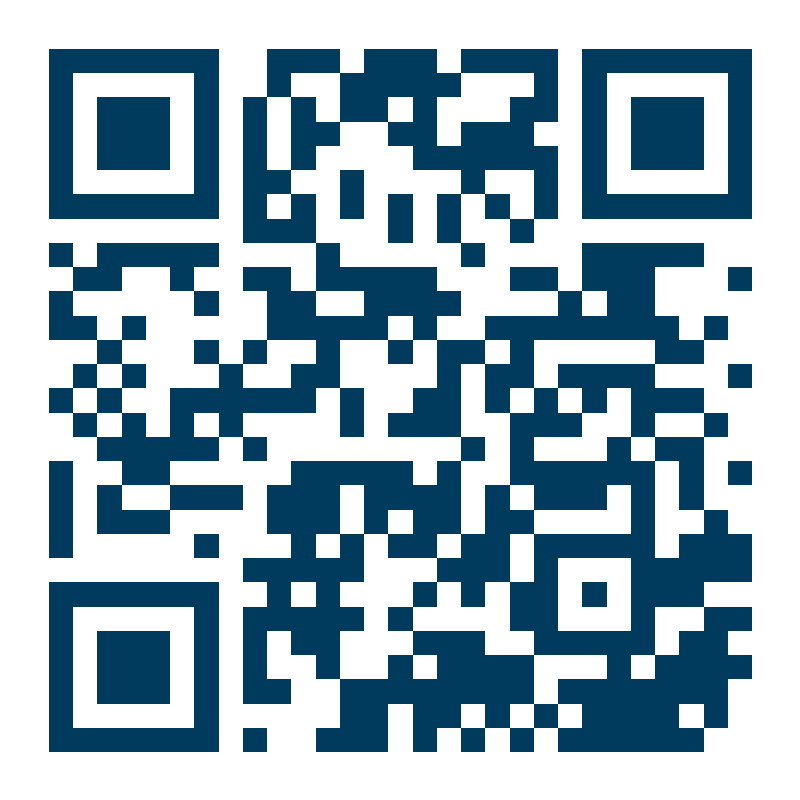
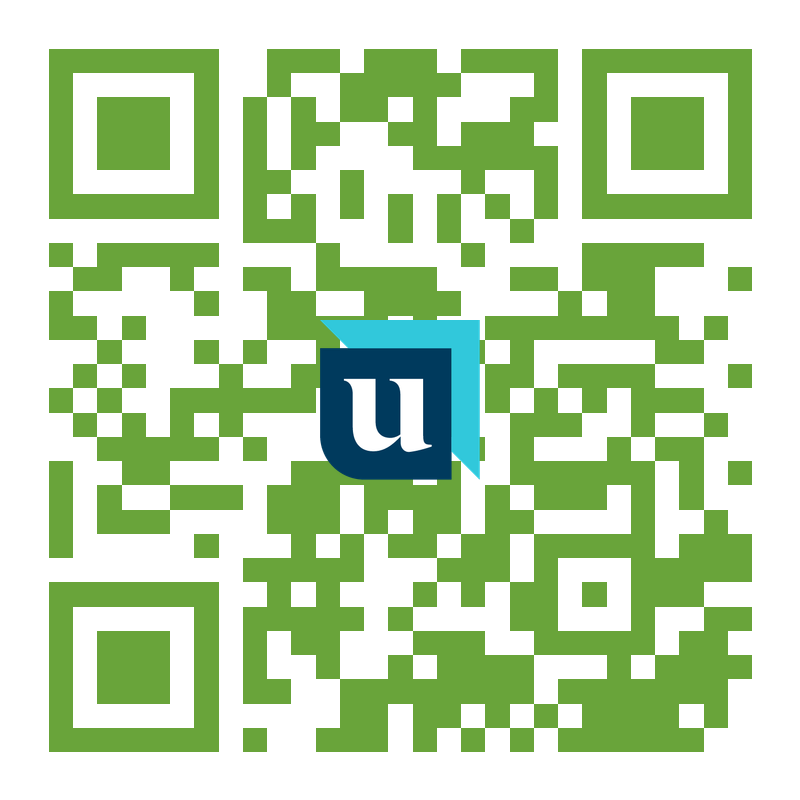
qr green

diff --git a/generate-qr.js b/generate-qr.js
@@ -1,25 +1,47 @@
 // generate-qr.js
 const QRCode = require("qrcode");
+const sharp = require("sharp");
 const fs = require("fs");
 const path = require("path");
 
 const team = ["alex", "jeremy", "nealy", "spencer"]; // add more slugs here
 const base = "https://upperlineco.com/tap/";
 
-const outDir = path.join(process.cwd(), "qr-out");
-if (!fs.existsSync(outDir)) fs.mkdirSync(outDir);
+const outDir = path.join(process.cwd(), "public/qr");
+if (!fs.existsSync(outDir)) fs.mkdirSync(outDir, { recursive: true });
+
+// Your logo location is in /public (not /assets)
+const logoPath = path.join(process.cwd(), "public/upperline-mark.png");
 
 (async () => {
+  // Prepare logo once (resize per QR later)
+  const logoBuffer = fs.readFileSync(logoPath);
+
   for (const slug of team) {
     const url = `${base}${slug}`;
-    const file = path.join(outDir, `qr-${slug}.png`);
+    const finalPath = path.join(outDir, `qr-${slug}.png`);
 
-    await QRCode.toFile(file, url, {
-      width: 800,           // print quality
+    // 1) Create the QR as a buffer (no intermediate file)
+    const qrBuffer = await QRCode.toBuffer(url, {
+      width: 800,
       margin: 2,
-      color: { dark: "#003a5d", light: "#ffffffff" }, // Upperline navy on white
+      color: { dark: "#69a43a", light: "#ffffff" }, // Upperline navy on white
     });
 
-    console.log(`✅ Wrote ${file} → ${url}`);
+    // 2) Determine QR size, compute logo size (~20% of QR width)
+    const meta = await sharp(qrBuffer).metadata();
+    const logoSize = Math.floor((meta.width || 800) * 0.2);
+
+    // 3) Resize logo and composite onto the QR (in memory)
+    const logoResized = await sharp(logoBuffer).resize(logoSize, logoSize).png().toBuffer();
+
+    const composed = await sharp(qrBuffer)
+      .composite([{ input: logoResized, gravity: "center" }])
+      .png()
+      .toBuffer();
+
+    // 4) Write final PNG once
+    fs.writeFileSync(finalPath, composed);
+    console.log(`✅ Updated ${finalPath} → ${url}`);
   }
 })();
